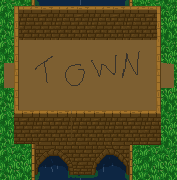
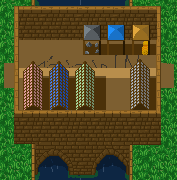
finished town and fixed bug in loading

Changed region(s): [[0.0847, 0.3056, 0.904, 0.6111], [0.452, 0.1389, 0.904, 0.3056]]

diff --git a/M3/src/main/java/edu/gatech/cs2340/SerializableUtil.java b/M3/src/main/java/edu/gatech/cs2340/SerializableUtil.java
@@ -54,6 +54,11 @@ public class SerializableUtil {
      */
     public void loadGame(File fileName, Stage stage) throws IOException,
             ClassNotFoundException {
+        if (fileName == null) {
+            return;
+            //if player presses cancel instead of actually choosing the
+            //save file. I.E. wants to start a new game
+        }
         FileInputStream fis = new FileInputStream(fileName);
         ObjectInputStream ois = new ObjectInputStream(fis);
         Game obj = (Game) ois.readObject();
